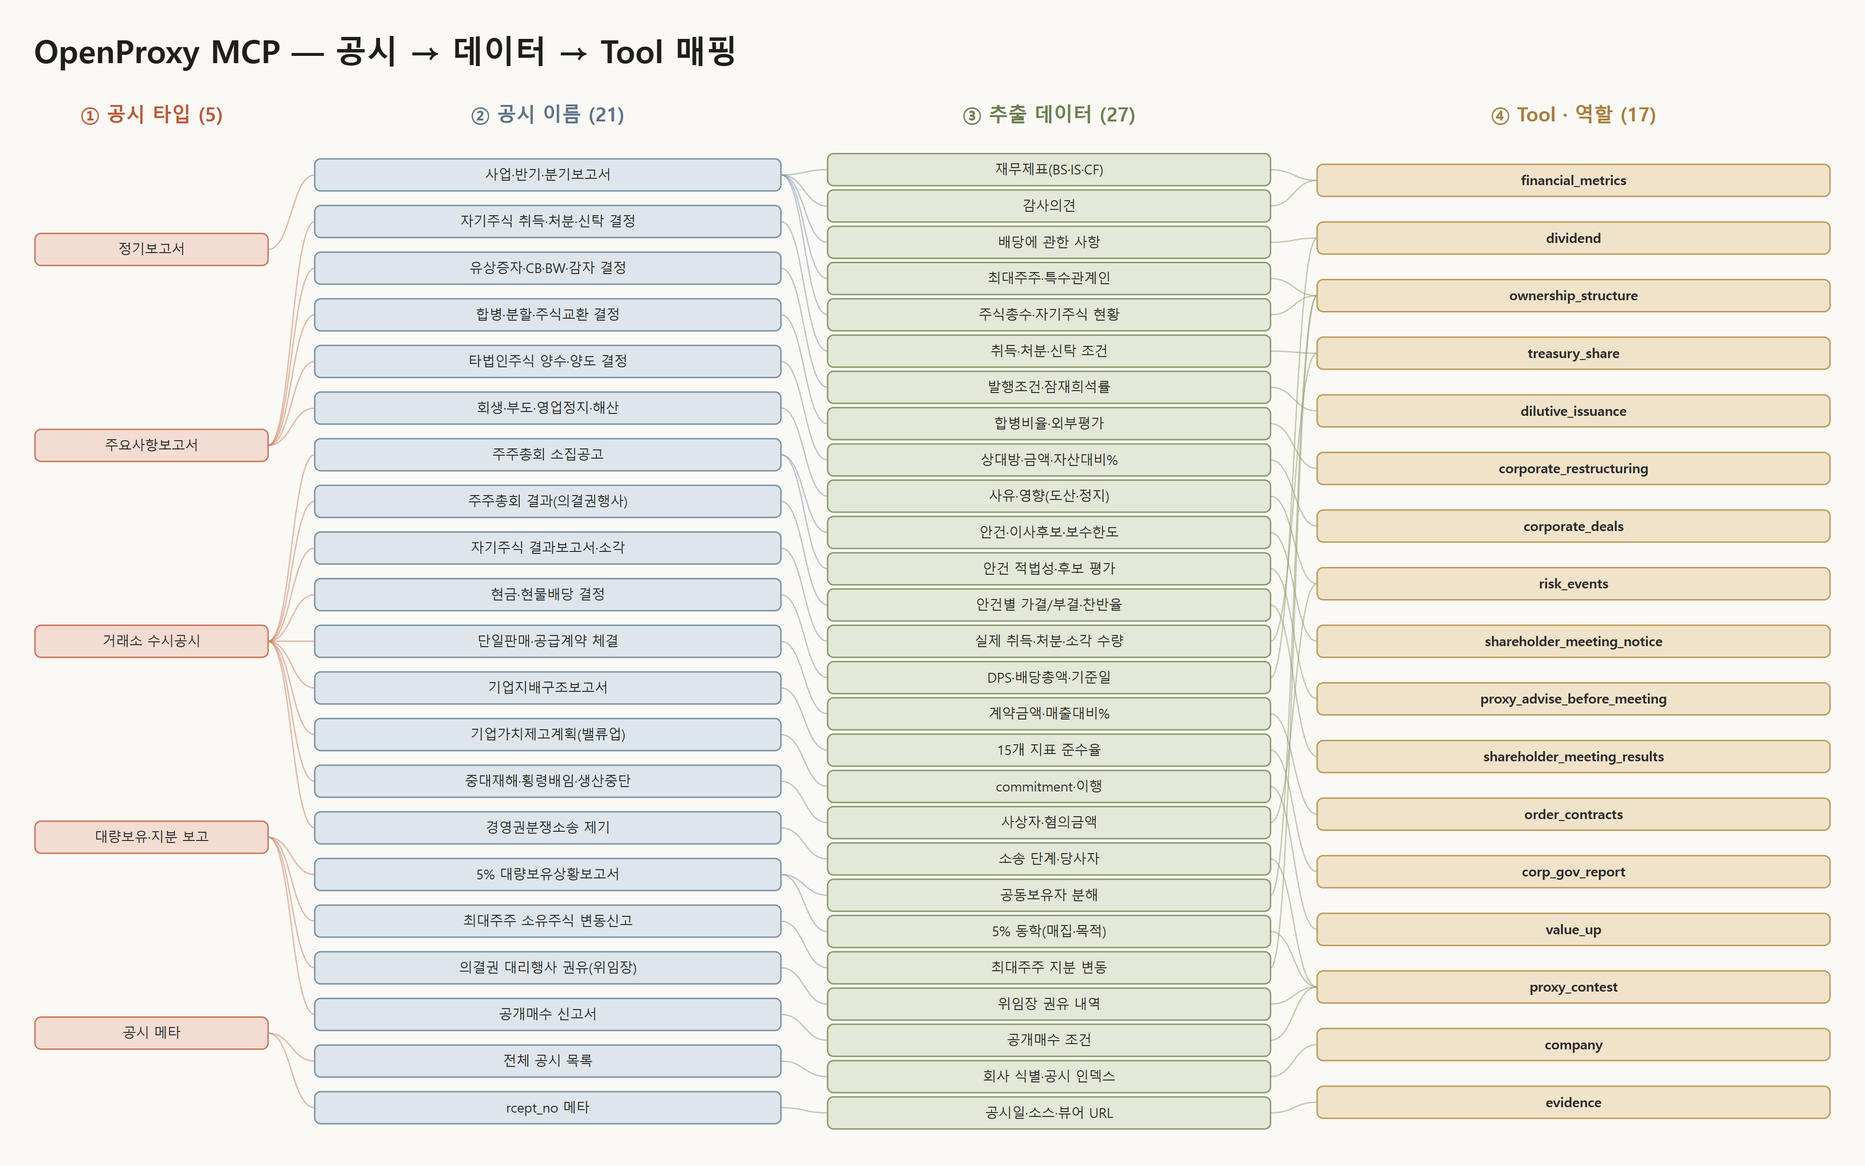
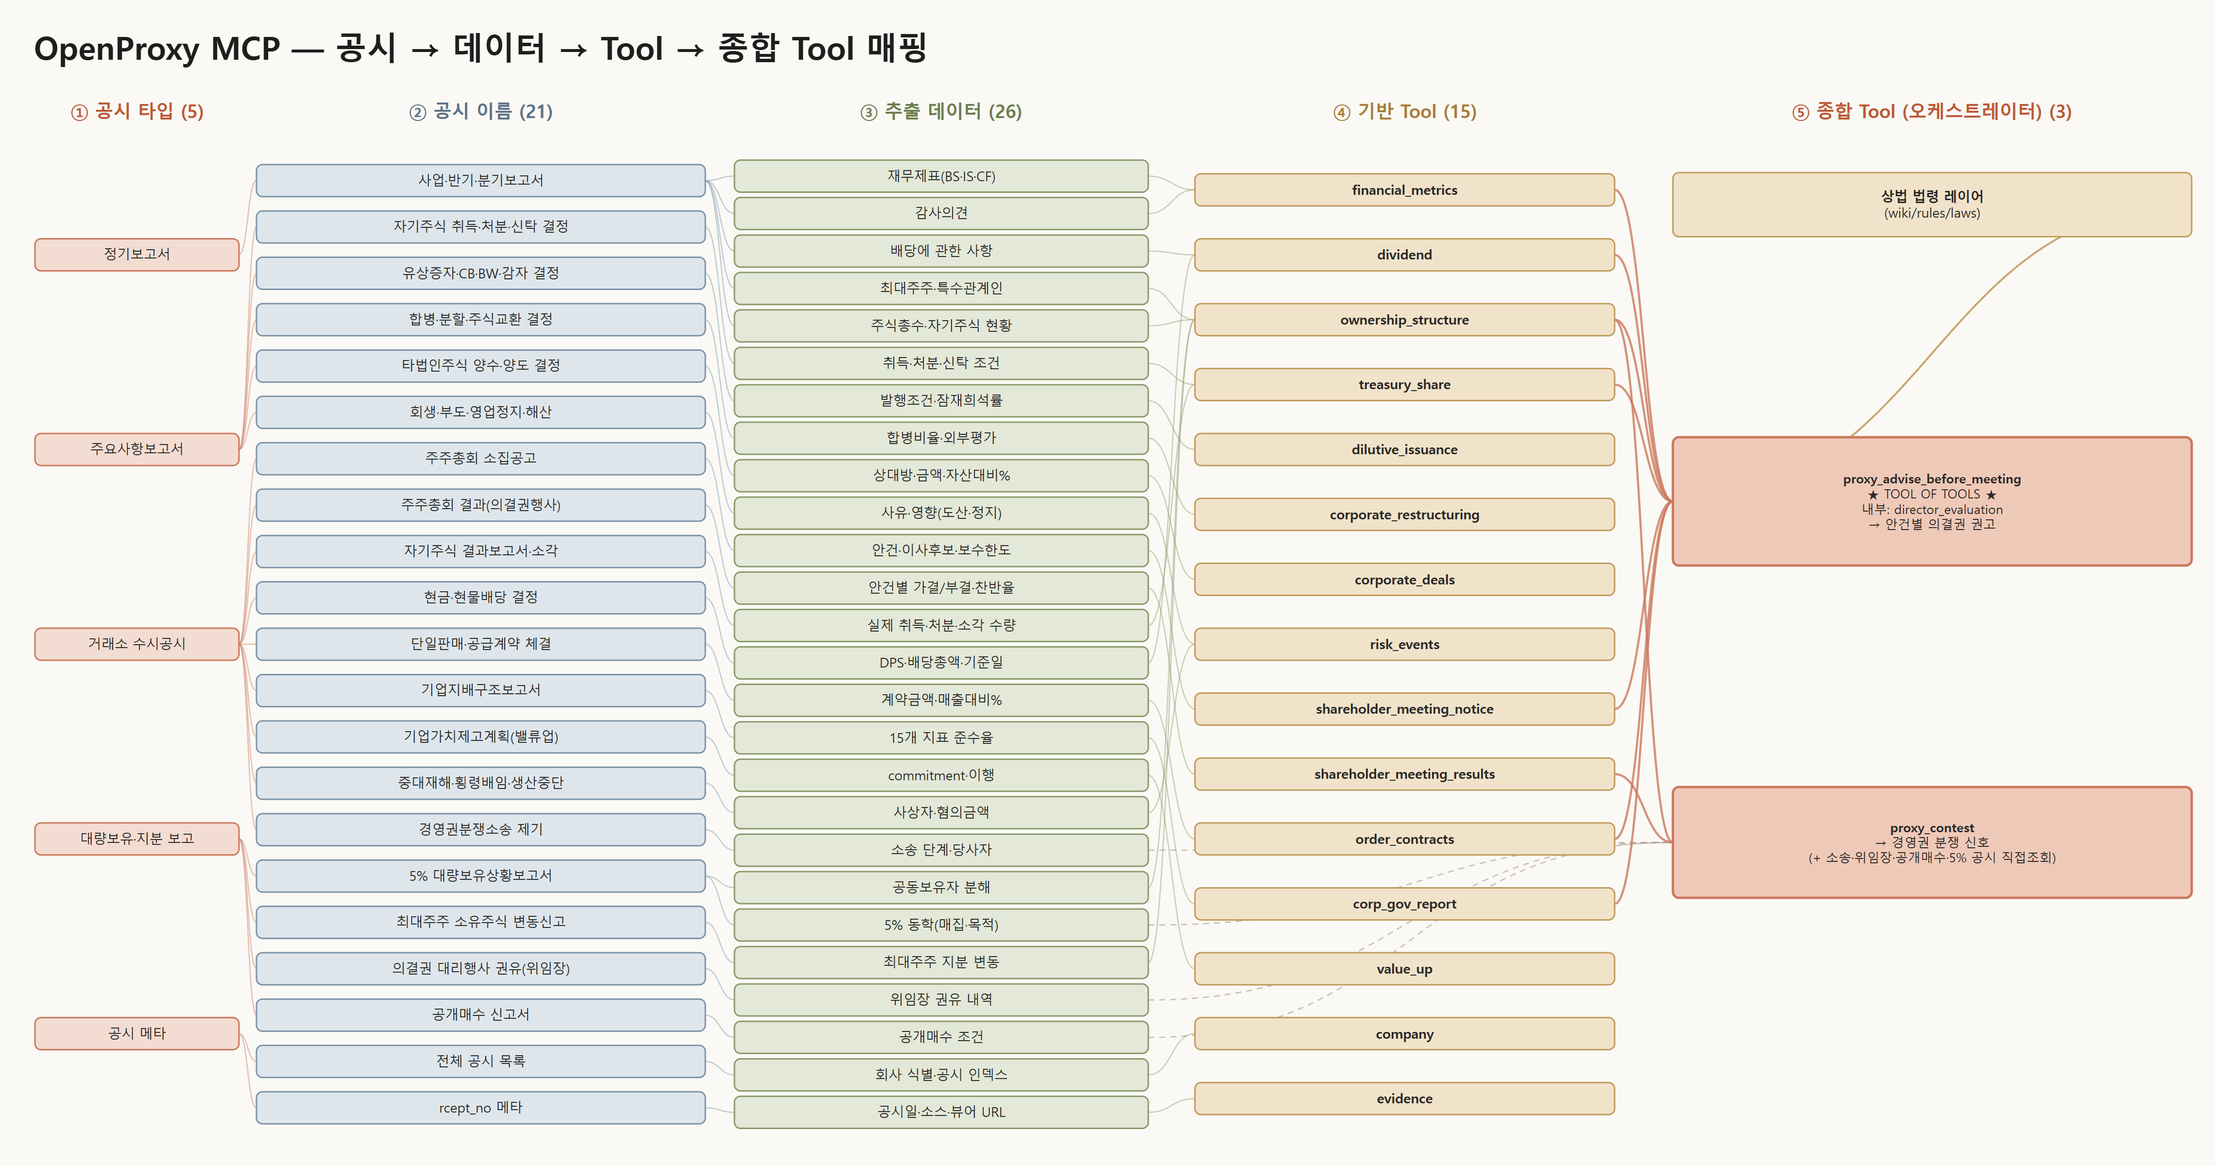
diagrams: orchestration을 공시매핑 PPT에 5번째 컬럼으로 통합
- tool_disclosure_map.pptx/ppt_preview: 5컬럼화
  (공시타입 → 공시이름 → 데이터 → 기반Tool → 종합Tool)
- 종합 Tool 컬럼 = proxy_advise(tool of tools) + proxy_contest + 상법 법령 레이어
  기반 tool → 종합 tool 오케스트레이션 엣지(굵은 선), proxy_contest 직접 공시조회(점선)
- 중복된 standalone orchestration.png/mmd 삭제

diff --git a/wiki/tools/diagrams/src/build_ppt.py b/wiki/tools/diagrams/src/build_ppt.py
@@ -1,5 +1,6 @@
 # -*- coding: utf-8 -*-
-"""OpenProxy MCP 공시→데이터→Tool 매핑을 편집 가능한 PPTX(다크 신경망 스타일) + 미리보기 SVG로 생성."""
+"""공시→데이터→기반Tool→종합Tool(오케스트레이터) 5컬럼 매핑을 PPTX + 미리보기 SVG로 생성.
+Anthropic/Claude 화이트 테마. orchestration(tool of tools)을 5번째 컬럼으로 통합."""
 import html
 from pptx import Presentation
 from pptx.util import Inches, Pt, Emu
@@ -8,7 +9,7 @@ from pptx.enum.shapes import MSO_SHAPE, MSO_CONNECTOR
 from pptx.enum.text import PP_ALIGN, MSO_ANCHOR
 from pptx.oxml.ns import qn
 
-# ---------- 데이터 (gen_nn 과 동일 매핑) ----------
+# ---------- 노드 ----------
 L0 = [("ty1","정기보고서"),("ty2","주요사항보고서"),("ty3","거래소 수시공시"),
       ("ty4","대량보유·지분 보고"),("ty5","공시 메타")]
 L1 = [("periodic","사업·반기·분기보고서"),("d_ts","자기주식 취득·처분·신탁 결정"),
@@ -26,145 +27,187 @@ L2 = [("da_fs","재무제표(BS·IS·CF)"),("da_audit","감사의견"),("da_divt
       ("da_tscond","취득·처분·신탁 조건"),("da_issuecond","발행조건·잠재희석률"),
       ("da_mergeratio","합병비율·외부평가"),("da_dealterm","상대방·금액·자산대비%"),
       ("da_riskB","사유·영향(도산·정지)"),("da_agenda","안건·이사후보·보수한도"),
-      ("da_advise","안건 적법성·후보 평가"),("da_vote","안건별 가결/부결·찬반율"),
-      ("da_tsactual","실제 취득·처분·소각 수량"),("da_dps","DPS·배당총액·기준일"),
-      ("da_contract","계약금액·매출대비%"),("da_gov15","15개 지표 준수율"),
-      ("da_commit","commitment·이행"),("da_riskI","사상자·혐의금액"),
-      ("da_lawsuit","소송 단계·당사자"),("da_coholder","공동보유자 분해"),
-      ("da_5dyn","5% 동학(매집·목적)"),("da_ownchg","최대주주 지분 변동"),
-      ("da_proxyrec","위임장 권유 내역"),("da_tendercond","공개매수 조건"),
-      ("da_index","회사 식별·공시 인덱스"),("da_viewer","공시일·소스·뷰어 URL")]
+      ("da_vote","안건별 가결/부결·찬반율"),("da_tsactual","실제 취득·처분·소각 수량"),
+      ("da_dps","DPS·배당총액·기준일"),("da_contract","계약금액·매출대비%"),
+      ("da_gov15","15개 지표 준수율"),("da_commit","commitment·이행"),
+      ("da_riskI","사상자·혐의금액"),("da_lawsuit","소송 단계·당사자"),
+      ("da_coholder","공동보유자 분해"),("da_5dyn","5% 동학(매집·목적)"),
+      ("da_ownchg","최대주주 지분 변동"),("da_proxyrec","위임장 권유 내역"),
+      ("da_tendercond","공개매수 조건"),("da_index","회사 식별·공시 인덱스"),
+      ("da_viewer","공시일·소스·뷰어 URL")]
+# 기반 tool (15) — proxy_advise/proxy_contest 는 5번째 컬럼으로 분리
 L3 = [("t_fin","financial_metrics"),("t_div","dividend"),("t_own","ownership_structure"),
       ("t_tre","treasury_share"),("t_dil","dilutive_issuance"),("t_res","corporate_restructuring"),
       ("t_dea","corporate_deals"),("t_rsk","risk_events"),("t_not","shareholder_meeting_notice"),
-      ("t_adv","proxy_advise_before_meeting"),("t_rslt","shareholder_meeting_results"),
-      ("t_ord","order_contracts"),("t_gov","corp_gov_report"),("t_val","value_up"),
-      ("t_pcn","proxy_contest"),("t_cmp","company"),("t_evd","evidence")]
+      ("t_rslt","shareholder_meeting_results"),("t_ord","order_contracts"),
+      ("t_gov","corp_gov_report"),("t_val","value_up"),("t_cmp","company"),("t_evd","evidence")]
+# 종합 tool (오케스트레이터) + 법령 — 커스텀 배치
+L4 = [
+    ("law","상법 법령 레이어\n(wiki/rules/laws)"),
+    ("t_adv","proxy_advise_before_meeting\n★ TOOL OF TOOLS ★\n내부: director_evaluation\n→ 안건별 의결권 권고"),
+    ("t_pcn","proxy_contest\n→ 경영권 분쟁 신호\n(+ 소송·위임장·공개매수·5% 공시 직접조회)"),
+]
 
-EDGES = [
+# 일반 흐름 (공시→데이터→기반tool)
+E_NORMAL = [
     ("ty1","periodic"),("ty2","d_ts"),("ty2","d_issue"),("ty2","d_merge"),("ty2","d_deal"),("ty2","d_riskB"),
     ("ty3","d_notice"),("ty3","d_result"),("ty3","d_tsresult"),("ty3","d_divdec"),("ty3","d_order"),
     ("ty3","d_gov"),("ty3","d_valueup"),("ty3","d_riskI"),("ty3","d_lawsuit"),
     ("ty4","d_5pct"),("ty4","d_ownchg"),("ty4","d_proxy"),("ty4","d_tender"),("ty5","d_list"),("ty5","d_recept"),
     ("periodic","da_fs"),("periodic","da_audit"),("periodic","da_divtable"),("periodic","da_majorholder"),("periodic","da_shares"),
     ("d_ts","da_tscond"),("d_issue","da_issuecond"),("d_merge","da_mergeratio"),("d_deal","da_dealterm"),("d_riskB","da_riskB"),
-    ("d_notice","da_agenda"),("d_notice","da_advise"),("d_result","da_vote"),("d_tsresult","da_tsactual"),
-    ("d_divdec","da_dps"),("d_order","da_contract"),("d_gov","da_gov15"),("d_valueup","da_commit"),
-    ("d_riskI","da_riskI"),("d_lawsuit","da_lawsuit"),("d_5pct","da_coholder"),("d_5pct","da_5dyn"),
-    ("d_ownchg","da_ownchg"),("d_proxy","da_proxyrec"),("d_tender","da_tendercond"),("d_list","da_index"),("d_recept","da_viewer"),
+    ("d_notice","da_agenda"),("d_result","da_vote"),("d_tsresult","da_tsactual"),("d_divdec","da_dps"),("d_order","da_contract"),
+    ("d_gov","da_gov15"),("d_valueup","da_commit"),("d_riskI","da_riskI"),("d_lawsuit","da_lawsuit"),
+    ("d_5pct","da_coholder"),("d_5pct","da_5dyn"),("d_ownchg","da_ownchg"),("d_proxy","da_proxyrec"),
+    ("d_tender","da_tendercond"),("d_list","da_index"),("d_recept","da_viewer"),
     ("da_fs","t_fin"),("da_audit","t_fin"),("da_divtable","t_div"),("da_dps","t_div"),
     ("da_majorholder","t_own"),("da_shares","t_own"),("da_coholder","t_own"),("da_ownchg","t_own"),
     ("da_tscond","t_tre"),("da_tsactual","t_tre"),("da_issuecond","t_dil"),("da_mergeratio","t_res"),
     ("da_dealterm","t_dea"),("da_riskB","t_rsk"),("da_riskI","t_rsk"),("da_agenda","t_not"),
-    ("da_advise","t_adv"),("da_vote","t_rslt"),("da_contract","t_ord"),("da_gov15","t_gov"),
-    ("da_commit","t_val"),("da_lawsuit","t_pcn"),("da_5dyn","t_pcn"),("da_proxyrec","t_pcn"),
-    ("da_tendercond","t_pcn"),("da_index","t_cmp"),("da_viewer","t_evd"),
+    ("da_vote","t_rslt"),("da_contract","t_ord"),("da_gov15","t_gov"),("da_commit","t_val"),
+    ("da_index","t_cmp"),("da_viewer","t_evd"),
 ]
+# 오케스트레이션 (기반tool → 종합tool) — tool of tools
+E_ORCH = [("t_own","t_pcn"),("t_rslt","t_pcn"),
+          ("t_fin","t_adv"),("t_div","t_adv"),("t_own","t_adv"),("t_tre","t_adv"),
+          ("t_ord","t_adv"),("t_gov","t_adv"),("t_not","t_adv")]
+# proxy_contest 직접 공시 조회 (데이터 → 종합tool)
+E_DIRECT = [("da_5dyn","t_pcn"),("da_lawsuit","t_pcn"),("da_proxyrec","t_pcn"),("da_tendercond","t_pcn")]
+# 법령 → proxy_advise
+E_LAW = [("law","t_adv")]
 
 LAYERS = [L0, L1, L2, L3]
-TITLES = ["① 공시 타입", "② 공시 이름", "③ 추출 데이터", "④ Tool · 역할"]
-# Anthropic/Claude theme: warm ivory bg, clay/coral accent, muted earthy tints, dark text
-FILLS = ["F3DCD2", "DEE6EC", "E3E8D8", "F1E3CA"]      # 박스 채움(연한 틴트)
-LINE_COLORS = ["CC785C", "7C93A8", "8A9A6B", "C09A5B"] # 테두리 + 커넥터
-TITLE_COLS = ["BC5A38", "5E7388", "6E7E50", "A87F3C"]  # 레이어 제목
-COLORS = FILLS                                          # 호환용
+TITLES = ["① 공시 타입","② 공시 이름","③ 추출 데이터","④ 기반 Tool","⑤ 종합 Tool (오케스트레이터)"]
+FILLS  = ["F3DCD2","DEE6EC","E3E8D8","F1E3CA"]
+BORDERS= ["CC785C","7C93A8","8A9A6B","C09A5B"]
+TITLE_COLS = ["BC5A38","5E7388","6E7E50","A87F3C","BC5A38"]
+ORCH_FILL = "EFC9B8"; ORCH_BORDER = "CC785C"
+LAW_FILL  = "F1E3CA"; LAW_BORDER = "C09A5B"
+ORCH_LINE = "CC785C"; DIRECT_LINE = "9A8C7A"
 BG = "FAF9F5"; TEXT = "2B2A28"; HEAD_TEXT = "1F1E1D"
 
-# ---------- 지오메트리 (inch) ----------
-SW, SH = 16.0, 10.0
-COL_X = [0.30, 2.70, 7.10, 11.30]
-COL_W = [2.00, 4.00, 3.80, 4.40]
-CONTENT_TOP, CONTENT_BOT = 1.30, 0.30
+# ---------- 지오메트리 ----------
+SW, SH = 19.0, 10.0
+COL_X = [0.30, 2.20, 6.30, 10.25, 14.35]
+COL_W = [1.75, 3.85, 3.55, 3.60, 4.45]
+CONTENT_TOP, CONTENT_BOT = 1.35, 0.30
 USABLE = SH - CONTENT_TOP - CONTENT_BOT
 BOX_H = 0.275
 
 geo = {}
 for li, layer in enumerate(LAYERS):
     n = len(layer); x = COL_X[li]; w = COL_W[li]
-    for i, (nid, _) in enumerate(layer):
-        cy = CONTENT_TOP + (i + 0.5) * USABLE / n
-        geo[nid] = (x, cy - BOX_H/2, w, BOX_H, li)
+    for i,(nid,_) in enumerate(layer):
+        cy = CONTENT_TOP + (i+0.5)*USABLE/n
+        geo[nid] = (x, cy-BOX_H/2, w, BOX_H, li)
+# L4 커스텀 (x, y_top, w, h, layer)
+x4, w4 = COL_X[4], COL_W[4]
+geo["law"]   = (x4, 1.75-0.27, w4, 0.55, 4)
+geo["t_adv"] = (x4, 4.30-0.55, w4, 1.10, 4)
+geo["t_pcn"] = (x4, 7.20-0.45, w4, 0.95, 4)
+
+ALL_NODES = {nid: lbl for layer in LAYERS for nid,lbl in layer}
+ALL_NODES.update({nid: lbl for nid,lbl in L4})
+
+def node_style(nid, li):
+    if nid in ("t_adv","t_pcn"): return ORCH_FILL, ORCH_BORDER
+    if nid == "law": return LAW_FILL, LAW_BORDER
+    return FILLS[li], BORDERS[li]
 
 # ===================== PPTX =====================
-prs = Presentation()
-prs.slide_width = Inches(SW); prs.slide_height = Inches(SH)
-slide = prs.slides.add_slide(prs.slide_layouts[6])  # blank
+prs = Presentation(); prs.slide_width = Inches(SW); prs.slide_height = Inches(SH)
+slide = prs.slides.add_slide(prs.slide_layouts[6])
+bgf = slide.background.fill; bgf.solid(); bgf.fore_color.rgb = RGBColor.from_string(BG)
 
-bg = slide.background.fill; bg.solid(); bg.fore_color.rgb = RGBColor.from_string(BG)
+def add_text(x,y,w,h,txt,size,color,bold=False,align=PP_ALIGN.LEFT):
+    tb = slide.shapes.add_textbox(Inches(x),Inches(y),Inches(w),Inches(h))
+    tf = tb.text_frame; tf.word_wrap=True; p=tf.paragraphs[0]; p.alignment=align
+    r=p.add_run(); r.text=txt; f=r.font; f.size=Pt(size); f.bold=bold
+    f.color.rgb=RGBColor.from_string(color); f.name="Malgun Gothic"
 
-def add_text(x, y, w, h, txt, size, color, bold=False, align=PP_ALIGN.LEFT):
-    tb = slide.shapes.add_textbox(Inches(x), Inches(y), Inches(w), Inches(h))
-    tf = tb.text_frame; tf.word_wrap = True
-    p = tf.paragraphs[0]; p.alignment = align
-    r = p.add_run(); r.text = txt
-    f = r.font; f.size = Pt(size); f.bold = bold; f.color.rgb = RGBColor.from_string(color)
-    f.name = "Malgun Gothic"
-    return tb
+add_text(0.3,0.16,18,0.6,"OpenProxy MCP — 공시 → 데이터 → Tool → 종합 Tool 매핑",26,HEAD_TEXT,True)
+for li,t in enumerate(TITLES):
+    cnt = len(L4) if li==4 else len(LAYERS[li])
+    add_text(COL_X[li],0.78,COL_W[li],0.45,f"{t} ({cnt})",14,TITLE_COLS[li],True,PP_ALIGN.CENTER)
 
-add_text(0.3, 0.18, 15, 0.6, "OpenProxy MCP — 공시 → 데이터 → Tool 매핑", 26, HEAD_TEXT, True)
-for li, t in enumerate(TITLES):
-    add_text(COL_X[li], 0.80, COL_W[li], 0.4, f"{t} ({len(LAYERS[li])})", 15, TITLE_COLS[li], True, PP_ALIGN.CENTER)
+def emu(v): return Emu(int(v*914400))
+def add_conn(a,b,color,wpt,dash=False,alpha=55000):
+    xa,ya,wa,ha,_=geo[a]; xb,yb,wb,hb,_=geo[b]
+    cn=slide.shapes.add_connector(MSO_CONNECTOR.STRAIGHT,emu(xa+wa),emu(ya+ha/2),emu(xb),emu(yb+hb/2))
+    ln=cn.line; ln.color.rgb=RGBColor.from_string(color); ln.width=Pt(wpt)
+    el=ln._get_or_add_ln(); sf=el.find(qn('a:solidFill'))
+    if sf is not None:
+        srgb=sf.find(qn('a:srgbClr'))
+        srgb.append(srgb.makeelement(qn('a:alpha'),{'val':str(alpha)}))
+    if dash:
+        el.append(el.makeelement(qn('a:prstDash'),{'val':'dash'}))
 
-# 커넥터 먼저(도형 뒤)
-def emu(v): return Emu(int(v * 914400))
-for a, b in EDGES:
-    xa, ya, wa, ha, la = geo[a]; xb, yb, wb, hb, lb = geo[b]
-    x1 = xa + wa; y1 = ya + ha/2; x2 = xb; y2 = yb + hb/2
-    cn = slide.shapes.add_connector(MSO_CONNECTOR.STRAIGHT, emu(x1), emu(y1), emu(x2), emu(y2))
-    ln = cn.line; ln.color.rgb = RGBColor.from_string(LINE_COLORS[la]); ln.width = Pt(0.75)
-    # 반투명
-    sp = cn.line._get_or_add_ln()
-    solidFill = sp.find(qn('a:solidFill'))
-    if solidFill is not None:
-        srgb = solidFill.find(qn('a:srgbClr'))
-        alpha = srgb.makeelement(qn('a:alpha'), {'val': '55000'}); srgb.append(alpha)
+for a,b in E_NORMAL:  add_conn(a,b,BORDERS[geo[a][4]],0.75,False,52000)
+for a,b in E_ORCH:    add_conn(a,b,ORCH_LINE,1.5,False,90000)
+for a,b in E_DIRECT:  add_conn(a,b,DIRECT_LINE,0.9,True,55000)
+for a,b in E_LAW:     add_conn(a,b,LAW_BORDER,1.4,False,90000)
 
-# 도형
-for li, layer in enumerate(LAYERS):
-    for nid, label in layer:
-        x, y, w, h, _ = geo[nid]
-        sh = slide.shapes.add_shape(MSO_SHAPE.ROUNDED_RECTANGLE, Inches(x), Inches(y), Inches(w), Inches(h))
-        sh.fill.solid(); sh.fill.fore_color.rgb = RGBColor.from_string(FILLS[li])
-        sh.line.color.rgb = RGBColor.from_string(LINE_COLORS[li]); sh.line.width = Pt(1.0)
-        sh.shadow.inherit = False
-        tf = sh.text_frame; tf.word_wrap = True
-        tf.margin_left = Emu(20000); tf.margin_right = Emu(20000)
-        tf.margin_top = Emu(5000); tf.margin_bottom = Emu(5000)
-        tf.vertical_anchor = MSO_ANCHOR.MIDDLE
-        p = tf.paragraphs[0]; p.alignment = PP_ALIGN.CENTER
-        r = p.add_run(); r.text = label
-        f = r.font; f.size = Pt(8.5 if li != 3 else 8.5); f.bold = (li == 3)
-        f.color.rgb = RGBColor.from_string(TEXT); f.name = "Malgun Gothic"
+def add_box(nid,li):
+    label=ALL_NODES[nid]; x,y,w,h,_=geo[nid]; fill,border=node_style(nid,li)
+    sh=slide.shapes.add_shape(MSO_SHAPE.ROUNDED_RECTANGLE,Inches(x),Inches(y),Inches(w),Inches(h))
+    sh.fill.solid(); sh.fill.fore_color.rgb=RGBColor.from_string(fill)
+    sh.line.color.rgb=RGBColor.from_string(border); sh.line.width=Pt(2.0 if nid in ("t_adv","t_pcn") else 1.0)
+    sh.shadow.inherit=False
+    tf=sh.text_frame; tf.word_wrap=True
+    tf.margin_left=Emu(20000); tf.margin_right=Emu(20000); tf.margin_top=Emu(4000); tf.margin_bottom=Emu(4000)
+    tf.vertical_anchor=MSO_ANCHOR.MIDDLE
+    lines=label.split("\n")
+    for idx,line in enumerate(lines):
+        p=tf.paragraphs[0] if idx==0 else tf.add_paragraph()
+        p.alignment=PP_ALIGN.CENTER
+        r=p.add_run(); r.text=line; f=r.font
+        big = nid in ("t_adv","t_pcn")
+        f.size=Pt(9.5 if (big and idx==0) else (8 if big else 8.5))
+        f.bold=(li>=3 or nid in ("t_adv","t_pcn")) and idx==0
+        f.color.rgb=RGBColor.from_string(TEXT); f.name="Malgun Gothic"
 
-prs.save("wiki/tools/diagrams/tool_disclosure_map.pptx")
-print("PPTX saved")
+for li,layer in enumerate(LAYERS):
+    for nid,_ in layer: add_box(nid,li)
+for nid,_ in L4: add_box(nid,4)
 
-# ===================== 미리보기 SVG (동일 좌표) =====================
-PX = 96
-def esc(s): return html.escape(s, quote=True)
-Wp, Hp = int(SW*PX), int(SH*PX)
-svg = [f'<svg xmlns="http://www.w3.org/2000/svg" width="{Wp}" height="{Hp}" '
-       f'font-family="Malgun Gothic, sans-serif"><rect width="{Wp}" height="{Hp}" fill="#{BG}"/>']
-svg.append(f'<text x="{int(0.3*PX)}" y="{int(0.55*PX)}" fill="#{HEAD_TEXT}" font-size="26" font-weight="700">'
-           f'OpenProxy MCP — 공시 → 데이터 → Tool 매핑</text>')
-for li, t in enumerate(TITLES):
-    cx = (COL_X[li] + COL_W[li]/2) * PX
-    svg.append(f'<text x="{cx:.0f}" y="{int(1.05*PX)}" fill="#{TITLE_COLS[li]}" font-size="16" '
-               f'font-weight="700" text-anchor="middle">{esc(t)} ({len(LAYERS[li])})</text>')
-for a, b in EDGES:
-    xa, ya, wa, ha, la = geo[a]; xb, yb, wb, hb, lb = geo[b]
+prs.save("wiki/tools/diagrams/tool_disclosure_map.pptx"); print("PPTX saved")
+
+# ===================== 미리보기 SVG =====================
+PX=96
+def esc(s): return html.escape(s,quote=True)
+Wp,Hp=int(SW*PX),int(SH*PX)
+svg=[f'<svg xmlns="http://www.w3.org/2000/svg" width="{Wp}" height="{Hp}" '
+     f'font-family="Malgun Gothic, sans-serif"><rect width="{Wp}" height="{Hp}" fill="#{BG}"/>']
+svg.append(f'<text x="{int(0.3*PX)}" y="{int(0.52*PX)}" fill="#{HEAD_TEXT}" font-size="26" font-weight="700">'
+           f'OpenProxy MCP — 공시 → 데이터 → Tool → 종합 Tool 매핑</text>')
+for li,t in enumerate(TITLES):
+    cx=(COL_X[li]+COL_W[li]/2)*PX; cnt=len(L4) if li==4 else len(LAYERS[li])
+    svg.append(f'<text x="{cx:.0f}" y="{int(1.02*PX)}" fill="#{TITLE_COLS[li]}" font-size="15" '
+               f'font-weight="700" text-anchor="middle">{esc(t)} ({cnt})</text>')
+def sline(a,b,color,w,op,dash=False):
+    xa,ya,wa,ha,_=geo[a]; xb,yb,wb,hb,_=geo[b]
     x1=(xa+wa)*PX; y1=(ya+ha/2)*PX; x2=xb*PX; y2=(yb+hb/2)*PX; mx=(x1+x2)/2
+    d=' stroke-dasharray="5 4"' if dash else ''
     svg.append(f'<path d="M{x1:.1f},{y1:.1f} C{mx:.1f},{y1:.1f} {mx:.1f},{y2:.1f} {x2:.1f},{y2:.1f}" '
-               f'fill="none" stroke="#{LINE_COLORS[la]}" stroke-width="1.1" stroke-opacity="0.5"/>')
-for li, layer in enumerate(LAYERS):
-    for nid, label in layer:
-        x,y,w,h,_ = geo[nid]; px,py,pw,ph = x*PX,y*PX,w*PX,h*PX
-        svg.append(f'<rect x="{px:.1f}" y="{py:.1f}" width="{pw:.1f}" height="{ph:.1f}" rx="5" '
-                   f'fill="#{FILLS[li]}" stroke="#{LINE_COLORS[li]}" stroke-width="1.2"/>')
-        fs = 11
-        svg.append(f'<text x="{px+pw/2:.1f}" y="{py+ph/2+4:.1f}" fill="#{TEXT}" font-size="{fs}" '
-                   f'font-weight="{700 if li==3 else 400}" text-anchor="middle">{esc(label)}</text>')
+               f'fill="none" stroke="#{color}" stroke-width="{w}" stroke-opacity="{op}"{d}/>')
+for a,b in E_NORMAL: sline(a,b,BORDERS[geo[a][4]],1.0,0.45)
+for a,b in E_DIRECT: sline(a,b,DIRECT_LINE,1.1,0.5,True)
+for a,b in E_ORCH:   sline(a,b,ORCH_LINE,1.8,0.8)
+for a,b in E_LAW:    sline(a,b,LAW_BORDER,1.6,0.85)
+def srect(nid,li):
+    label=ALL_NODES[nid]; x,y,w,h,_=geo[nid]; px,py,pw,ph=x*PX,y*PX,w*PX,h*PX
+    fill,border=node_style(nid,li); big=nid in ("t_adv","t_pcn")
+    svg.append(f'<rect x="{px:.1f}" y="{py:.1f}" width="{pw:.1f}" height="{ph:.1f}" rx="5" '
+               f'fill="#{fill}" stroke="#{border}" stroke-width="{2 if big else 1.2}"/>')
+    lines=label.split("\n"); n=len(lines); fs=10.5 if big else 11
+    y0=py+ph/2-(n-1)*(fs+2)/2+4
+    for i,ln in enumerate(lines):
+        fw=700 if (li>=3 or big) and i==0 else 400
+        svg.append(f'<text x="{px+pw/2:.1f}" y="{y0+i*(fs+2):.1f}" fill="#{TEXT}" font-size="{fs}" '
+                   f'font-weight="{fw}" text-anchor="middle">{esc(ln)}</text>')
+for li,layer in enumerate(LAYERS):
+    for nid,_ in layer: srect(nid,li)
+for nid,_ in L4: srect(nid,4)
 svg.append('</svg>')
-with open("wiki/tools/diagrams/ppt_preview.svg", "w", encoding="utf-8") as f:
-    f.write("\n".join(svg))
+with open("wiki/tools/diagrams/ppt_preview.svg","w",encoding="utf-8") as f: f.write("\n".join(svg))
 print(f"SVG preview written: {Wp}x{Hp}")
